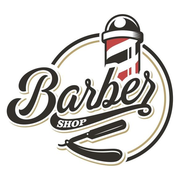
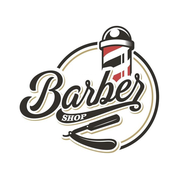
Add files via upload

diff --git a/app/sw.js b/app/sw.js
@@ -1,6 +1,6 @@
 /* Service worker do app do barbeiro: abre rápido e mostra a tela mesmo sem internet.
    Mude VERSAO a cada atualização publicada para os celulares baixarem a nova. */
-const VERSAO = "painel-v5";
+const VERSAO = "painel-v6";
 const ARQUIVOS = [
   "./", "./index.html", "./app.css", "./app.js", "./manifest.webmanifest",
   "./icones/icone-192.png", "./icones/icone-512.png", "./icones/icone-180.png", "./icones/icone-32.png",
@@ -8,7 +8,7 @@ const ARQUIVOS = [
 ];
 
 self.addEventListener("install", (e) => {
-  e.waitUntil(caches.open(VERSAO).then((c) => c.addAll(ARQUIVOS)).then(() => self.skipWaiting()));
+  e.waitUntil(caches.open(VERSAO).then((c) => c.addAll(ARQUIVOS.map((a) => new Request(a, { cache: "reload" })))).then(() => self.skipWaiting()));
 });
 self.addEventListener("activate", (e) => {
   e.waitUntil(caches.keys().then((ks) => Promise.all(ks.filter((k) => k !== VERSAO).map((k) => caches.delete(k))))
@@ -20,7 +20,7 @@ self.addEventListener("fetch", (e) => {
   const u = new URL(e.request.url);
   if (e.request.method !== "GET" || u.origin !== self.location.origin) return;
   e.respondWith(
-    fetch(e.request).then((r) => {
+    fetch(e.request, { cache: "no-cache" }).then((r) => {
       if (r.ok) { const copia = r.clone(); caches.open(VERSAO).then((c) => c.put(e.request, copia)); }
       return r;
     }).catch(() => caches.match(e.request, { ignoreSearch: true }).then((r) => r || caches.match("./index.html")))

diff --git a/app/app.css b/app/app.css
@@ -163,6 +163,6 @@
 @media (min-width: 760px) { .devedor { grid-template-columns: 1fr auto; align-items: center; } }
 
 /* logos sempre redondos, preenchendo o círculo */
-.topo-app .logo, .boas-vindas img, .entrada .marca { object-fit: cover; border-radius: 50%; }
+.topo-app .logo, .boas-vindas img, .entrada .marca { object-fit: cover; border-radius: 50%;  border: 0; box-shadow: 0 1px 5px rgba(0,0,0,.18); }
 .icones { max-height: 230px; overflow-y: auto; padding: 2px; }
 .sair-topo { flex: none; }
